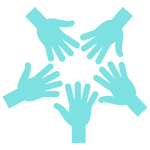
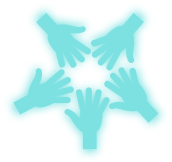
Replacing photos in the advantages block.

Changed region(s): [[0.0, 0.0267, 0.9867, 0.96], [0.3733, 0.2933, 0.4, 0.32]]

diff --git a/source/less/blocks/main/advantages-card.less b/source/less/blocks/main/advantages-card.less
@@ -18,15 +18,15 @@
 }
 
 .advantages-card__img1 {
-  .insert__img(75px, -15px, "../img/comp.png", 134px, 134px);
+  .insert__img(75px, -18px, "../img/comp.png", 150px, 139px);
 }
 
 .advantages-card__img2 {
-  .insert__img(35px, -15px, "../img/hands.png");
+  .insert__img(35px, -12px, "../img/hands.png", 160px, 156px);
 }
 
 .advantages-card__img3 {
-  .insert__img(15px, -33px, "../img/heart.png");
+  .insert__img(10px, -33px, "../img/heart.png");
 }
 
 .advantages-card__img4 {

diff --git a/source/less/mixins/mixins.less b/source/less/mixins/mixins.less
@@ -9,7 +9,7 @@
 }
 
 // Inserting an image
-.insert__img(@top: 50px, @right, @_path-to-img, @width: 150px, @height: 150px) {
+.insert__img(@top: 50px, @right, @_path-to-img, @width: 155px, @height: 155px) {
   position: absolute;
   top: @top;
   right: @right;
